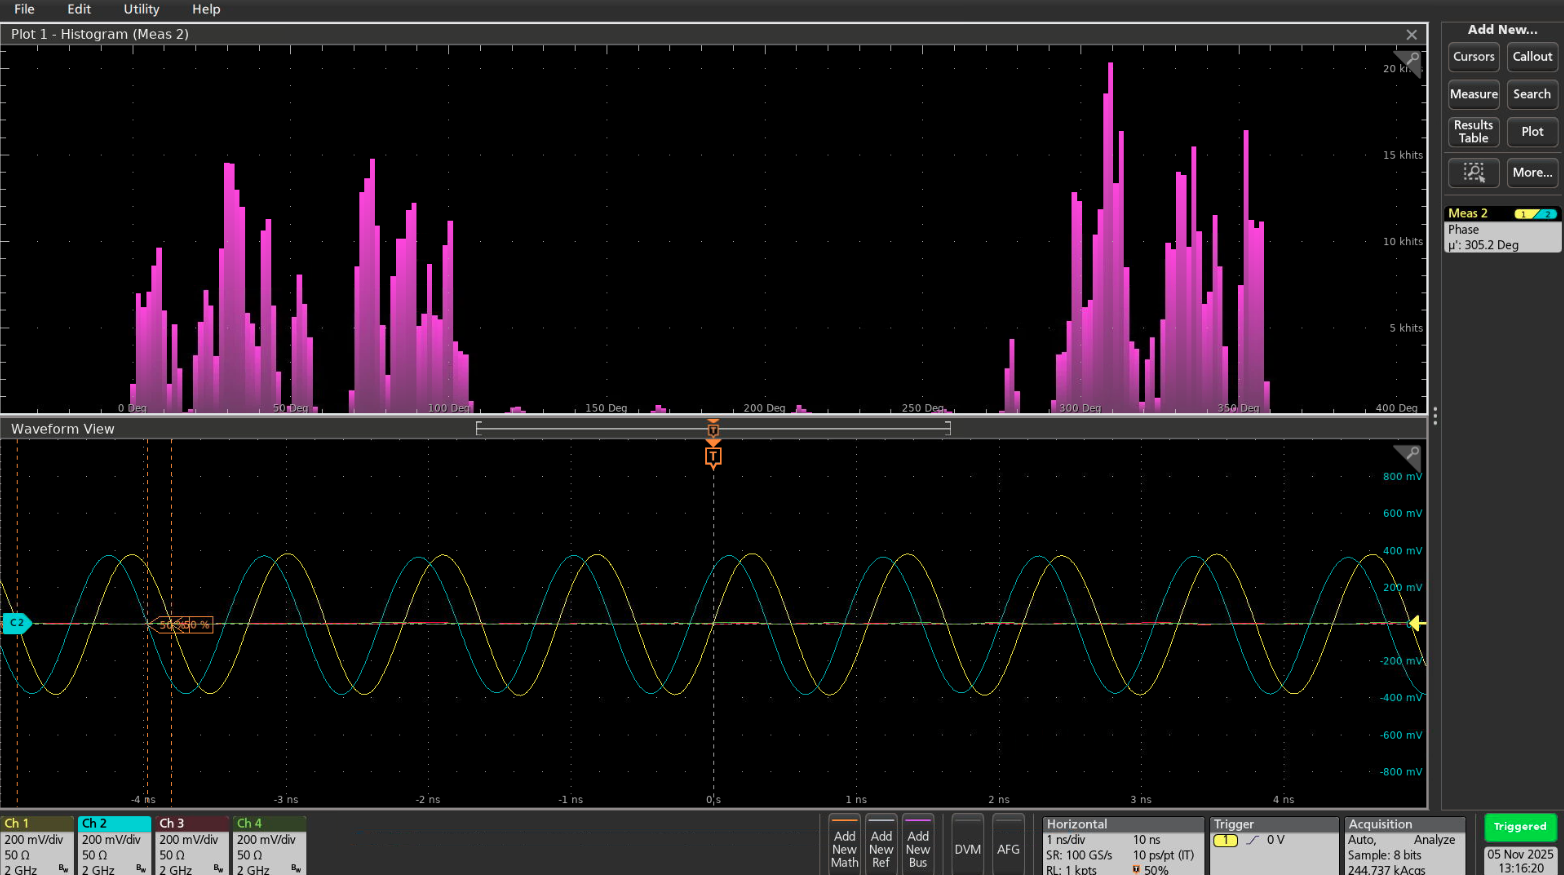
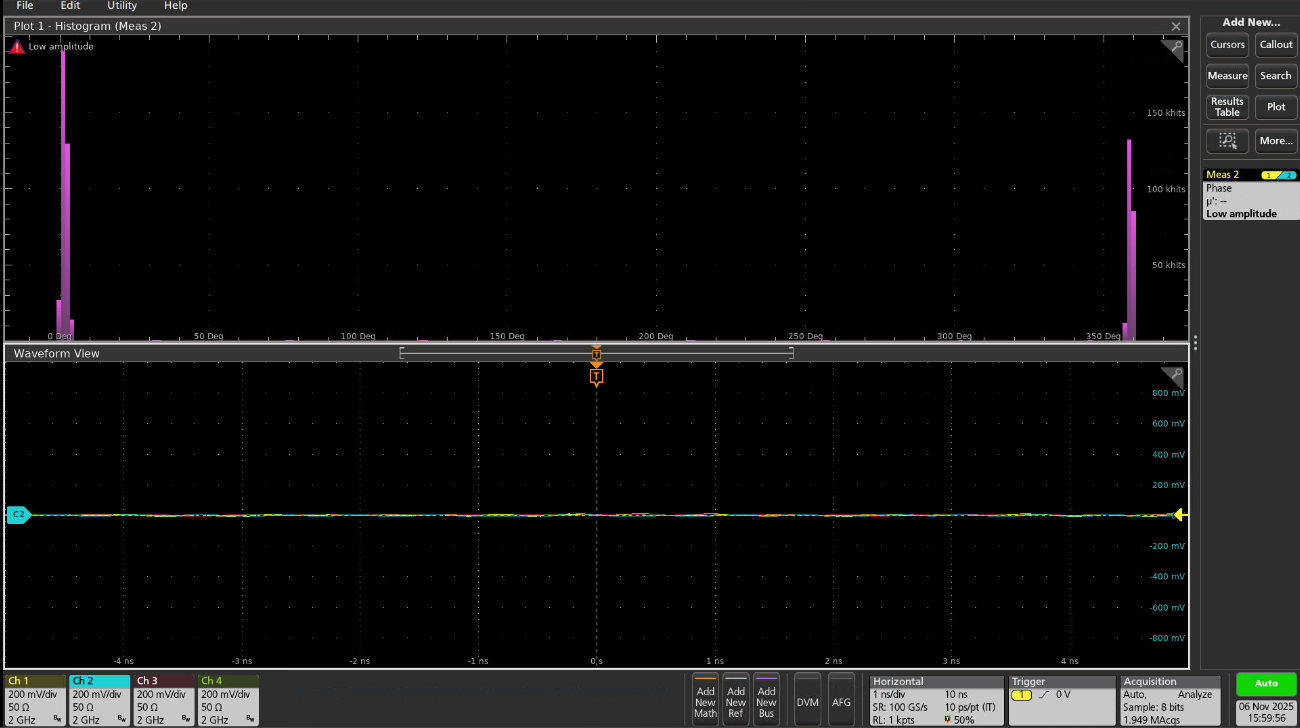
update

diff --git a/experiments/33_sync/server/meas-phases-scope.py b/experiments/33_sync/server/meas-phases-scope.py
@@ -1,0 +1,52 @@
+import time # std module
+import pyvisa as visa # http://github.com/hgrecco/pyvisa
+import numpy as np # http://www.numpy.org/
+from scipy.signal import find_peaks
+
+from enum import Enum
+
+ip = "192.108.1.219"
+
+rm = visa.ResourceManager()
+scope = rm.open_resource(f'TCPIP::{ip}::INSTR')
+
+scope.write('*rst') # reset
+
+# Add new measurement phase
+for i in range(3):
+  scope.write("MEASUREMENT:ADDMEAS PHASE")
+
+# Query list of measurements
+meas_list = scope.query("MEASUrement:LIST?")
+meas_list = meas_list.replace('\n', '').split(',')
+
+# Define channels (phase measurment)
+channel_1 = "CH1"
+channel_2 = "CH2"
+channel_3 = "CH3"
+channel_4 = "CH4"
+
+channels = [channel_1, channel_2, channel_3, channel_4]
+
+for i in range(4):
+  scope.write(f"{channels[i]}:TERMINATION 50")
+
+
+# Update sources from last added measurement
+for i in range(3):
+  scope.write(f"MEASUrement:{meas_list[i]}:SOUrce1 {channel_1}")
+  scope.write(f"MEASUrement:{meas_list[i]}:SOUrce2 {channels[i+1]}")
+
+def get_last_meas_name():
+  return scope.query("MEASUrement:LIST?").replace('\n', '').split(',')[-1]
+
+while 1:
+  
+  # Define measurement number
+  # meas_name = 'MEAS2'
+  meas_name = get_last_meas_name()
+  
+  res = scope.query(f"MEASUrement:{meas_name}:RESUlts:HISTory:MEAN?")
+  print(f"{meas_name}: {res}")
+
+  time.sleep(1)

diff --git a/experiments/33_sync/client/usrp-cal-bf.py b/experiments/33_sync/client/usrp-cal-bf.py
@@ -435,6 +435,13 @@ def wait_till_go_from_server(ip, _connect=True):
     alive_socket.close()
     sync_socket.close()
 
+def send_usrp_in_tx_mode(ip):
+    tx_mode_socket = context.socket(zmq.REQ)
+    tx_mode_socket.connect(f"tcp://{ip}:{5559}")
+    logger.debug("USRP IN TX MODE")
+    tx_mode_socket.send_string(HOSTNAME)
+    tx_mode_socket.close()
+
 
 def setup(usrp, server_ip, connect=True):
     rate = RATE
@@ -951,6 +958,9 @@ def tx_phase_coh(usrp, tx_streamer, quit_event, phase_corr, at_time, long_time=T
     # Start the metadata monitoring thread
     tx_meta_thr = tx_meta_thread(tx_streamer, quit_event)
 
+    # Send USRP is in TX mode for scope measurements
+    send_usrp_in_tx_mode(server_ip)
+
     # Allow transmission to continue for the configured duration
     if long_time:
         time.sleep(TX_TIME + delta(usrp, at_time))
@@ -1124,7 +1134,7 @@ def main():
             # phase_corr=phi_LB + phi_P + np.deg2rad(phi_cable),
             phase_corr=phi_LB + np.deg2rad(phi_cable),
             at_time=start_next_cmd,
-            long_time=False, # Set long_time True if you want to transmit longer than 10 seconds
+            long_time=True, # Set long_time True if you want to transmit longer than 10 seconds
         )
 
         print("DONE")

diff --git a/experiments/33_sync/server/sync-server.py b/experiments/33_sync/server/sync-server.py
@@ -24,7 +24,7 @@ if len(sys.argv) > 1:
     num_subscribers = int(sys.argv[2])
 else:
     delay = 10
-    num_subscribers = 2
+    num_subscribers = 4
 
 # Creates a socket instance
 context = zmq.Context()
